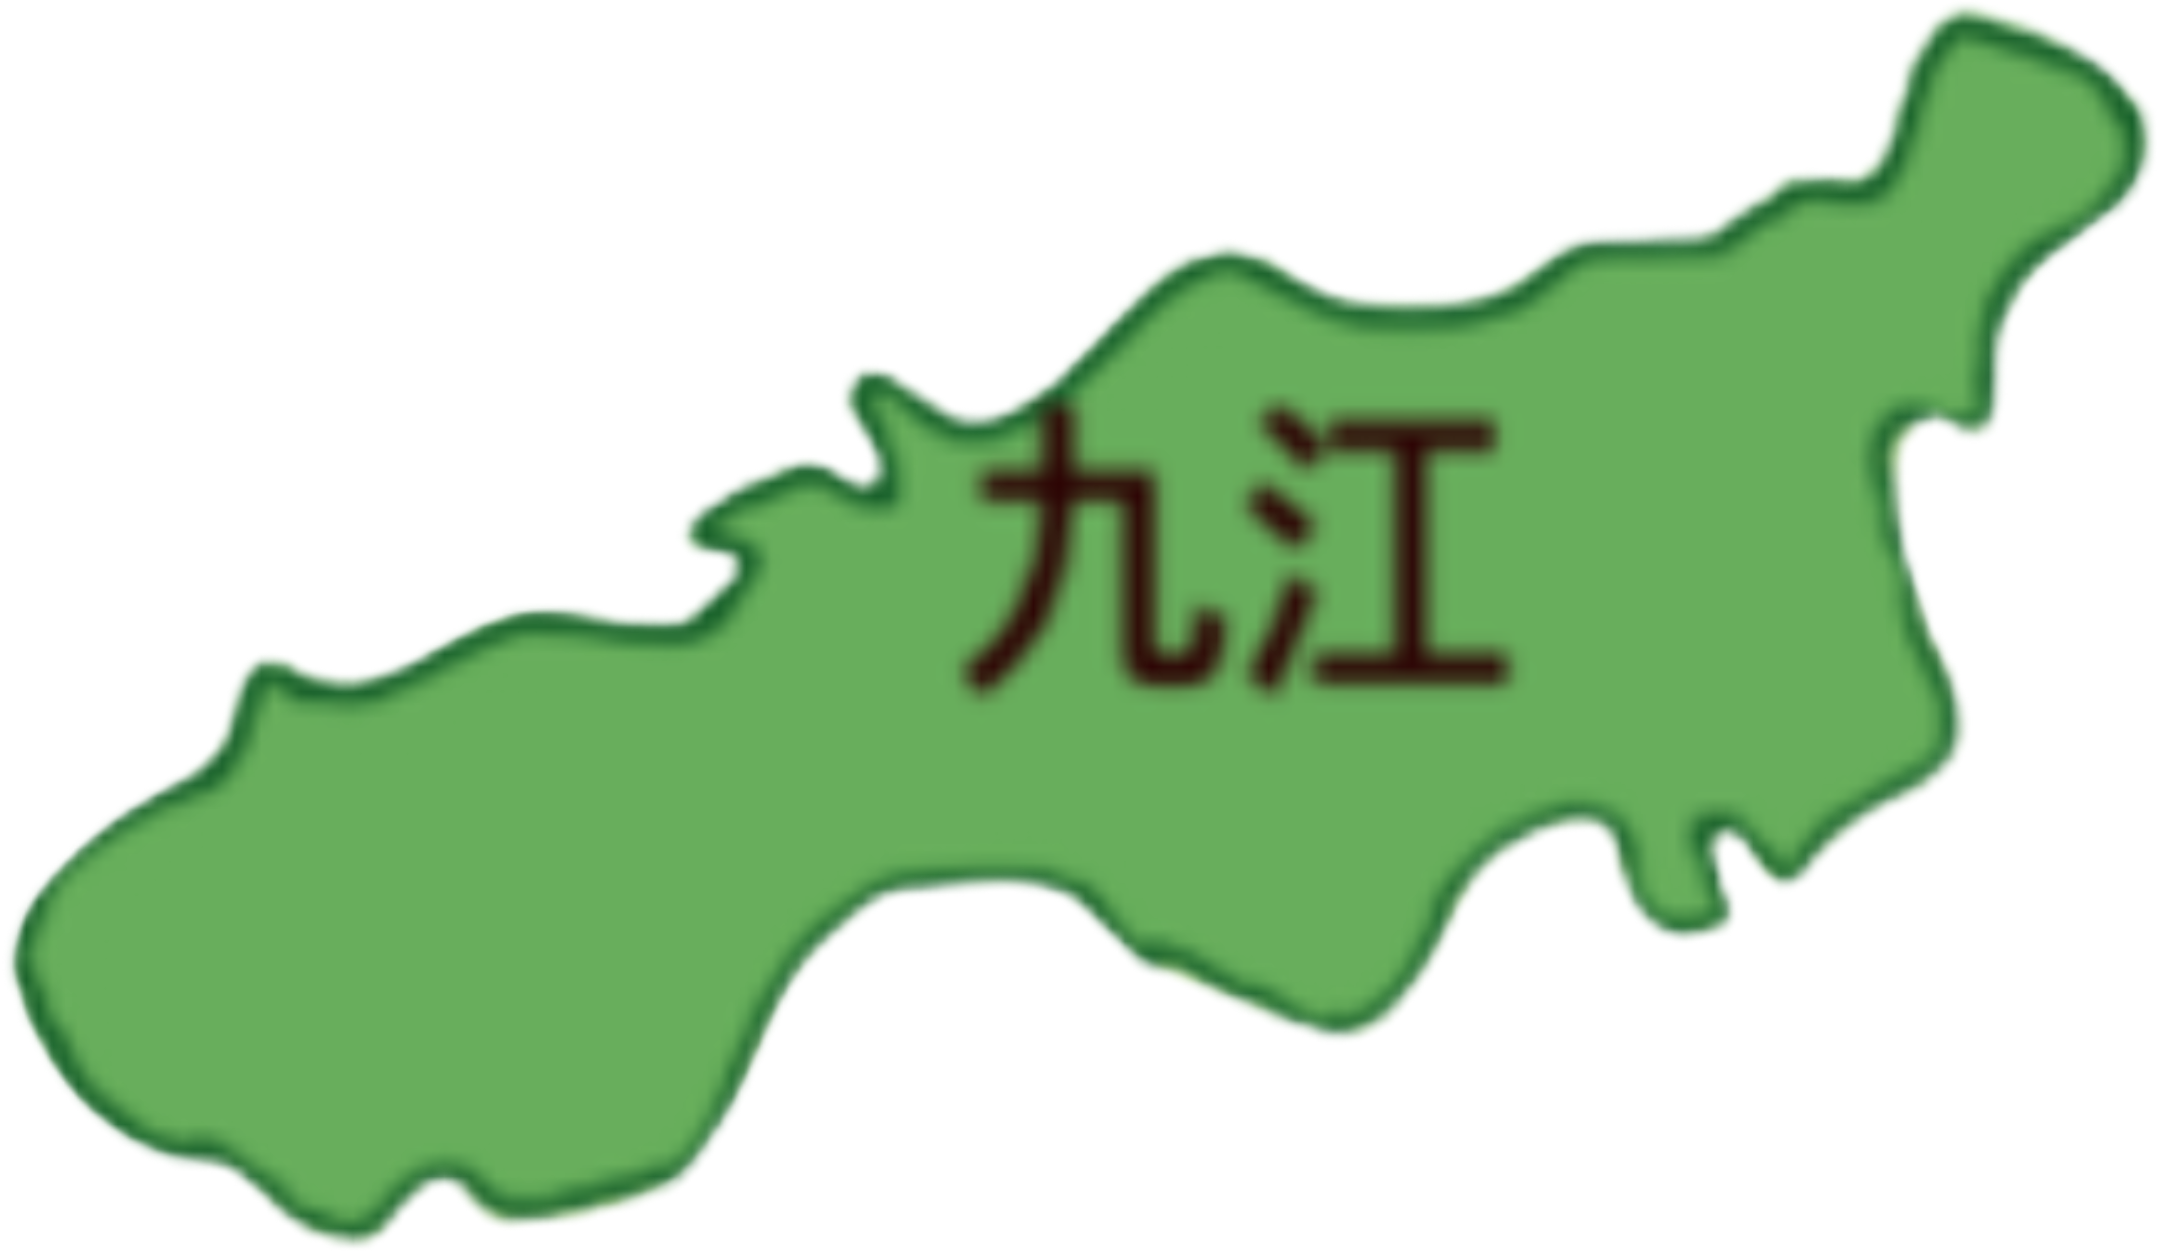
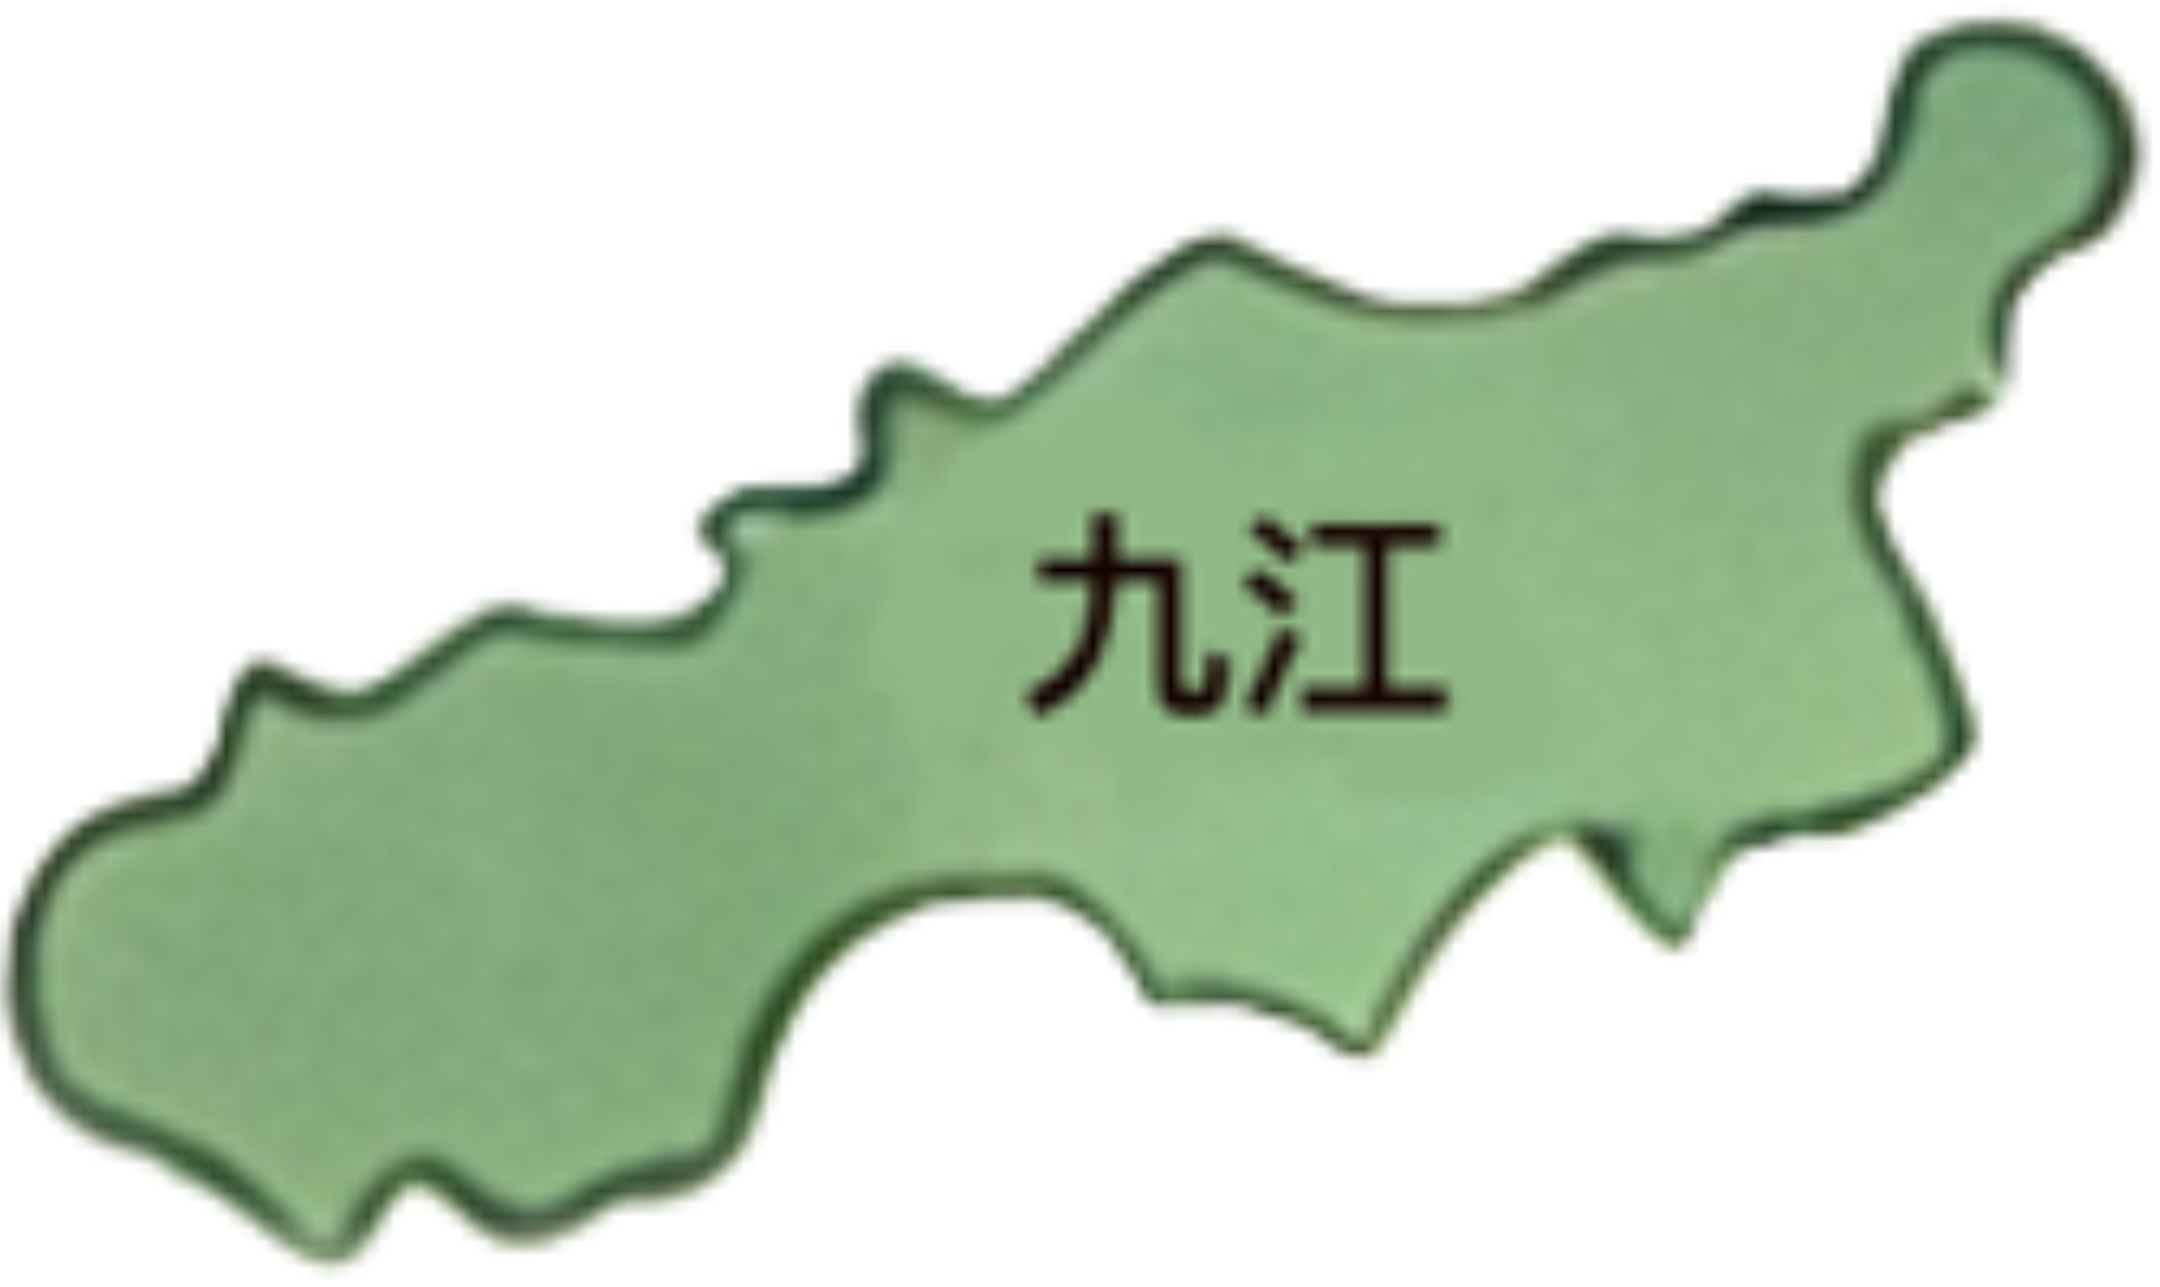
拼地图+NPC形象

diff --git a/ai-resume-platform/src/views/Home.vue b/ai-resume-platform/src/views/Home.vue
@@ -40,6 +40,15 @@
       >
         <img v-if="spot.MapImg" :src="spot.MapImg" :alt="spot.name" />
       </div>
+
+      <!-- 静态地图 -->
+      <div class="static-maps">
+        <img :src="Map1" class="static-map map1" />
+        <img :src="Map2" class="static-map map2" />
+        <img :src="Map3" class="static-map map3" />
+        <img :src="Map4" class="static-map map4" />
+        <img :src="Map5" class="static-map map5" />
+      </div>
     </div>
     <!-- 古琴声波纹装饰 -->
     <div class="sound-wave"></div>
@@ -58,6 +67,12 @@ import Shangrao from "../assets/imgs/ShangRao.png";
 import Jingdezhen from "../assets/imgs/JingDeZhen.png";
 import Jian from "../assets/imgs/JiAn.png";
 import Ganzhou from "../assets/imgs/GanZhou.png";
+import Map1 from "../assets/imgs/Map1.png";
+import Map2 from "../assets/imgs/Map2.png";
+import Map3 from "../assets/imgs/Map3.png";
+import Map4  from "../assets/imgs/Map4.png";
+import Map5  from "../assets/imgs/Map5.png";
+
 
 const router = useRouter();
 
@@ -68,27 +83,27 @@ const regionError = ref("");
 // 地区名称与地图坐标的对应关系
 const regionPositionMap = {
   南昌: { 
-    x: 87.55, y: 62.5, 
+    x: 88.1, y: 62.9, 
     MapImg: Nanchang
   }, 
   九江: { 
-    x: 85.8, y: 58.2, 
+    x: 86.3, y: 58.4, 
     MapImg: Jiujiang
   }, 
   上饶: { 
-    x: 91.5, y: 61.94, 
+    x: 92.15, y: 62, 
     MapImg: Shangrao
   }, 
   景德镇: { 
-    x: 91.35, y: 58.3, 
+    x: 91.925, y: 58.6, 
     MapImg: Jingdezhen
   }, 
   吉安: { 
-    x: 84.46, y: 72.7, 
+    x: 84.8, y: 73.3, 
     MapImg: Jian
   }, 
   赣州: { 
-    x: 85.6, y: 79.7, 
+    x: 86.13, y: 80.4, 
     MapImg: Ganzhou
   }
 };
@@ -201,7 +216,7 @@ onMounted(() => {
   width: 100%;
   height: 100%;
   object-fit: cover;   
-  object-position: 60% center; 
+  object-position: 58% center; 
   filter: sepia(0.15) contrast(1.05) brightness(1.02);
   transition: all 0.3s;
 }
@@ -291,48 +306,42 @@ onMounted(() => {
   z-index: 10;
 }
 
+
+
 .spot img {
   object-fit: contain;
   transition: all 0.3s ease;
   display: block;
   margin: 0 auto;
-}
-.spot:has(img[alt="南昌"]) {
-  z-index: 20;
+  height: auto;
 }
 
-/* 南昌图片单独大小 */
+/* 根据不同城市调整大小： 使用相对大小单位 */
 .spot img[alt="南昌"] {
-  width: 48px !important;
-  height: 48px !important;
-}
-/* 九江图片单独大小 */
-.spot img[alt="九江"] {
-  width: 123.5px !important;
-  height: 123.5px !important;
-}
-/* 上饶图片单独大小 */
-.spot img[alt="上饶"] {
-  width: 100px !important;
-  height: 100px !important;
-}
-/* 景德镇图片单独大小 */
-.spot img[alt="景德镇"] {
-  width: 61px !important;
-  height: 61px !important;
-  transform: rotate(-10deg);
-}
-/* 吉安图片单独大小 */
-.spot img[alt="吉安"] {
-  width: 97px !important;
-  height: 97px !important;
-}
-/* 赣州图片单独大小 */
-.spot img[alt="赣州"] {
-  width: 130px !important;
-  height: 130px !important;
+  width: 3.4vw !important; /* 改为相对单位 */
 }
 
+.spot img[alt="九江"] {
+  width: 8.7vw !important;
+}
+
+.spot img[alt="上饶"] {
+  width: 6.55vw !important;
+}
+
+.spot img[alt="景德镇"] {
+  width: 2.25vw !important;
+}
+
+.spot img[alt="吉安"] {
+  width: 6.5vw !important;
+}
+
+.spot img[alt="赣州"] {
+  width: 8.5vw !important;
+}
+
+/* 增加鼠标悬停效果 */
 .spot img:hover {
   transform: scale(1.1);
 }
@@ -342,14 +351,59 @@ onMounted(() => {
   transform: scale(0.95);
 }
 
-/* 景德镇悬停：旋转+缩放 */
-.spot img[alt="景德镇"]:hover {
-  transform: rotate(-10deg) scale(1.1);
+/* 静态地图图片容器 */
+.static-maps {
+  position: absolute;
+  top: 0;
+  left: 0;
+  width: 100%;
+  height: 100%;
+  pointer-events: none;
+  z-index: 2;
 }
 
-/* 景德镇点击按下：旋转+缩小 */
-.spot img[alt="景德镇"]:active {
-  transform: rotate(-10deg) scale(0.95);
+.static-map {
+  position: absolute;
+  object-fit: contain;
+  transform: translate(-50%, -50%);
+}
+
+/* 右一 */
+.map1 {
+  top: 65.4%;
+  left: 91.4%;
+  width: 2.5vw; /* 使用 vw 单位，确保宽度与屏幕宽度相关 */
+  height: auto;
+}
+
+/* 左上 */
+.map2 {
+  top: 65.1%;
+  left: 85.35%;
+  width: 6.8vw; /* 使用 vw 单位 */
+  height: auto;
+}
+/* 右下 */
+.map3 {
+  top: 70%;
+  left: 89.5%;
+  width: 5.3vw; /* 使用 vw 单位 */
+  height: auto;
+}
+/* 左下 */
+.map4 {
+  top: 70.5%;
+  left: 82%;
+  width: 2.3vw; /* 使用 vw 单位 */
+  height: auto;
+}
+
+/* 中 */
+.map5 {
+  top: 68.2%;
+  left: 84.95%;
+  width: 2.6vw; /* 使用 vw 单位 */
+  height: auto;
 }
 
 /* 古琴声波纹装饰 */
@@ -371,5 +425,4 @@ onMounted(() => {
   );
   border-radius: 4px;
 }
-
 </style>
